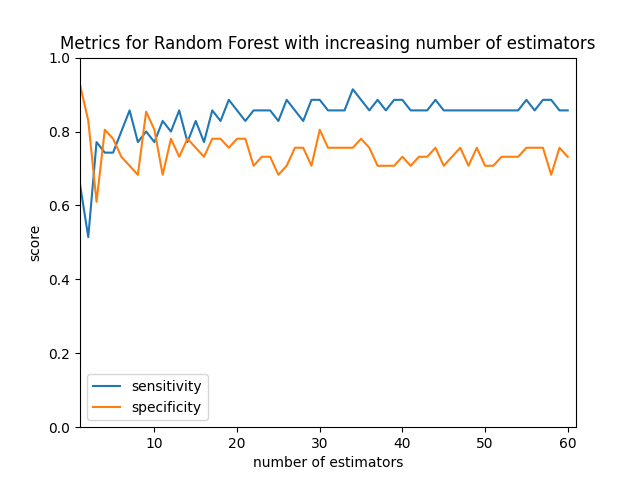
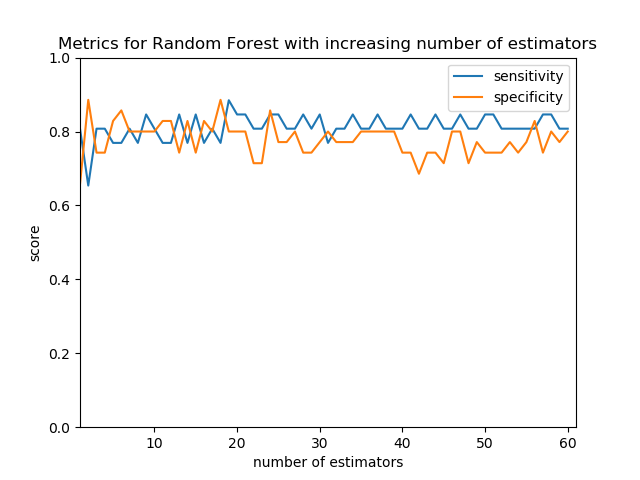
made confusion matrix figure

Changed region(s): [[0.0938, 0.0625, 0.9375, 0.5], [0.125, 0.7812, 0.3125, 0.875]]

diff --git a/main.py b/main.py
@@ -10,7 +10,7 @@ from sklearn.naive_bayes import MultinomialNB
 from sklearn.neighbors import KNeighborsClassifier
 from sklearn.metrics import confusion_matrix
 from sklearn.metrics import roc_curve, auc
-
+import seaborn as sns
 import matplotlib
 matplotlib.use('Agg')
 
@@ -71,7 +71,7 @@ def plotRFconvergence():
 
 plotRFconvergence()
 
-# ------------------------- Decition Tree (To see difference) -----------------------------------------
+# ------------------------- Decision Tree (To see difference) -----------------------------------------
 dTree = DecisionTreeClassifier()
 
 dTree.fit(x_train, y_train)
@@ -88,11 +88,12 @@ testResults['Decision Tree'] = np.array(
 
 fpr_dt, tpr_dt, _ = roc_curve(y_test, dTree.predict_proba(x_test)[:, 1])
 
+predDT = dTree.predict(x_test) 
 
 
 # ---------------------------- Random Forest Classifier (Bagging) -------------------------------------------
 
-RandomForest = RandomForestClassifier(n_estimators = 50, max_samples = 0.5)
+RandomForest = RandomForestClassifier(n_estimators = 50)
 RandomForest.fit(x_train,y_train)
 
 sensitivity, specificity = sensitivityAndSpecificity(
@@ -106,6 +107,8 @@ testResults['Random Forest'] = np.array(
     [sensitivity, specificity], dtype=np.float32)
 
 fpr_rf, tpr_rf, _ = roc_curve(y_test, RandomForest.predict_proba(x_test)[:, 1])
+
+predRF = RandomForest.predict(x_test)
 
 # ------------------------- Bagging (w/ decision trees) -------------------------------------------------
 
@@ -124,6 +127,8 @@ testResults['Bagging'] = np.array([sensitivity, specificity], dtype=np.float32)
 
 fpr_b, tpr_b, _ = roc_curve(y_test, Bagging.predict_proba(x_test)[:, 1])
 
+predBag = Bagging.predict(x_test) 
+
 # AdaBoost (Boosting) ----------------------------------------------------------
 
 ada = AdaBoostClassifier(n_estimators=60, learning_rate=1)
@@ -141,6 +146,7 @@ testResults['AdaBoost'] = np.array(
 
 fpr_ab, tpr_ab, _ = roc_curve(y_test, ada.predict_proba(x_test)[:, 1])
 
+predAda = ada.predict(x_test)
 
 # ----------------------------- Voting --------------------------------------------
 """
@@ -210,3 +216,38 @@ def rocPlot():
 rocPlot()
 
 
+
+#--------- Making the confusion matrices----------#
+
+def confM(true_y, pred_y):
+    figmat,ax = plt.subplots()
+    data = {'y_Actual':    true_y, 
+            'y_Predicted': pred_y }
+
+    df = pd.DataFrame(data, columns=['y_Actual','y_Predicted'])
+   # group_names = ["True Neg","False Pos","False Neg","True Pos"]
+    mat = pd.crosstab(df['y_Actual'], df['y_Predicted'], rownames=['Actual'], colnames=['Predicted'], margins = True)
+
+    #text = np.array([['TN', 'FP', 'AN'], ['FN', 'TP', 'AP'], ['PN', 'PP', 'T']])
+   # labels = (np.array(["{0}\n{1:.2f}".format(text,data) for text, data in zip(text.flatten(), mat.flatten())])).reshape(3,3)
+    sns.set(font_scale=1.6)
+    sns.heatmap(mat, annot=True, fmt='', cbar = False) #cbar=False,square=True
+    bottom, top = ax.get_ylim()
+    ax.set_ylim(bottom + 0.5, top - 0.5)
+    ax.tick_params( labelsize=15)
+    
+    return figmat
+    #figmat.savefig('data/confusionMatrix.png')
+    
+
+figBag = confM(y_test,predBag)
+figBag.savefig('data/confusionMatrixBagging.png')
+
+figAda = confM(y_test,predAda)
+figAda.savefig('data/confusionMatrixAda.png')
+
+figDT = confM(y_test,predDT)
+figDT.savefig('data/confusionMatrixDT.png')
+
+figRF = confM(y_test,predRF)
+figRF.savefig('data/confusionMatrixRF.png')
